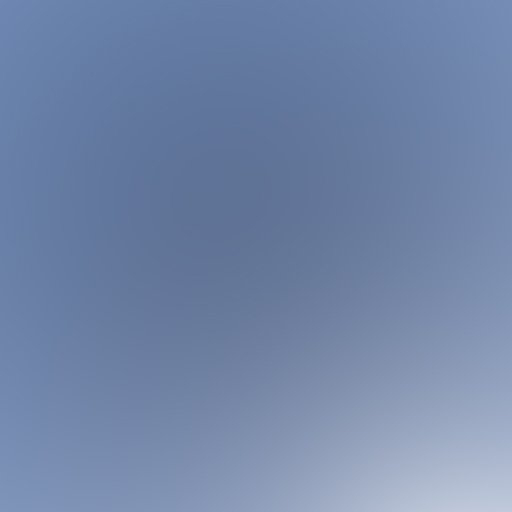
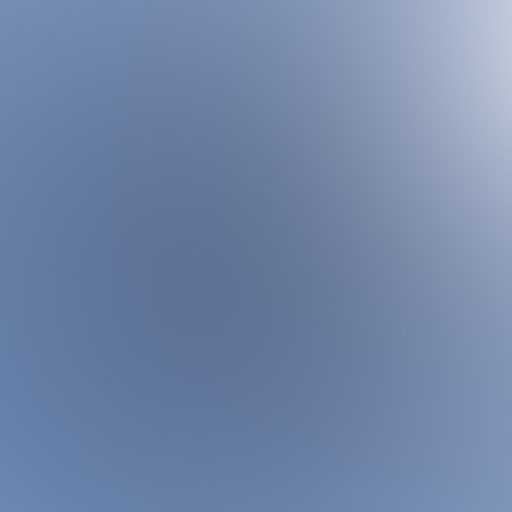
Implemented the skybox

Changed region(s): [[0.5625, 0.0, 1.0, 0.4688], [0.2188, 0.75, 1.0, 1.0]]

diff --git a/Interactive Room/Main.cpp b/Interactive Room/Main.cpp
@@ -16,6 +16,9 @@ void scroll_callback(GLFWwindow* window, double xoffset, double yoffset);
 void processInput(GLFWwindow *window);
 void key_callback(GLFWwindow* window, int key, int scancode, int action, int mode);
 void selectObject(double x, double y);
+GLuint loadCubeMap(vector<string> faces);
+void loadSkybox();
+void drawSkybox();
 
 // settings
 const unsigned int SCR_WIDTH = 800;
@@ -45,8 +48,12 @@ vector<Model*> Model::models;
 //shader pointers to switch between shaders in functions
 Shader* general;
 Shader* selection;
+Shader* skybox_shader;
 //boolean determining whether an object is selected or not
 bool isSelected;
+
+//Skybox objects
+GLuint skyboxVAO, skyboxVBO, skyboxEBO, skyboxCubemap;
 
 int main()
 {
@@ -105,7 +112,8 @@ int main()
 	general = &generalShader;
 	Shader selectionShader("Shaders/selection_vert.shader", "Shaders/selection_frag.shader");
 	selection = &selectionShader;
-	//Shader skyBoxShader("Shaders/skybox_vertex.shader", "Shaders/skybox_fragment.shader");
+	Shader skyBoxShader("Shaders/skybox_vertex.shader", "Shaders/skybox_fragment.shader");
+	skybox_shader = &skyBoxShader;
 
 	generalShader.use();
 	// scaled light positions
@@ -119,21 +127,8 @@ int main()
 	generalShader.setVec3("bedLamp", bedLamp);
 	generalShader.setVec3("kitchLamp", kitchLamp);
 
-	// load models
-	// -----------
-
-	//GLuint skyboxTexture;
-	//glGenTextures(1, &skyboxTexture);
-
-	//skyboxTexture = SOIL_load_OGL_single_cubemap
-	//(
-	//	"Models/skybox.jpg",
-	//	"WNESUD",
-	//	SOIL_LOAD_AUTO,
-	//	SOIL_CREATE_NEW_ID,
-	//	SOIL_FLAG_MIPMAPS
-	//);
-	//glBindTexture(GL_TEXTURE_CUBE_MAP, skyboxTexture);
+	//Load the skybox
+	loadSkybox();
 
 	//number of objects to load, hard-coded
 	int objNum = 28;
@@ -230,7 +225,6 @@ int main()
 	Model windows("Models/house/windows.obj");
 	cout << "windows loaded,\t\tposition -> " << windows.displacement().x << " : " << windows.displacement().y << " : " << windows.displacement().z << ".\t\t";
 	cout << "Objects left: " << --objNum << endl;
-	//Model skyBox("Models/cube.obj");
 
 	//sets the shader that each model is going to use.
 	for (int i = 0; i < Model::models.size(); ++i) {
@@ -267,6 +261,10 @@ int main()
 
 		// update shaders with view and projection
 		// ---------------------------------------
+		skyBoxShader.use();
+		skyBoxShader.setMat4("projection", projection);
+		skyBoxShader.setMat4("view", view);
+		skyBoxShader.setMat4("model", glm::translate(glm::mat4(1.0), camera.getCameraPosition()));
 		generalShader.use();
 		generalShader.setMat4("projection", projection);
 		generalShader.setMat4("view", view);
@@ -279,20 +277,12 @@ int main()
 		// render
 		// ------
 		glClear(GL_COLOR_BUFFER_BIT | GL_DEPTH_BUFFER_BIT);
+		//skybox.draw();
+		drawSkybox();
 
 		for (int i = 0; i < Model::models.size(); ++i) {
 			(*(Model::models[i])).Draw();
 		}
-
-		//skyBoxShader.use();
-		//glActiveTexture(GL_TEXTURE1);
-		//skyBoxShader.setMat4("view_matrix", view);
-		//skyBoxShader.setMat4("projection_matrix", projection);
-		//skyBoxShader.setInt("skyboxTexture", skyboxTexture);
-		//glDepthMask(GL_FALSE);
-		//skyBox.Draw(skyBoxShader);
-		//glDepthMask(GL_TRUE);
-		//glBindTexture(GL_TEXTURE_CUBE_MAP, 0);
 
 		// glfw: swap buffers
 		// ------------------
@@ -467,4 +457,105 @@ void selectObject(double x, double y) {
 		(*(Model::models[i])).setShader(general);
 	if (isSelected)
 		(*selected).setShader(selection);
+}
+
+GLuint loadCubeMap(vector<string> faces)
+{
+	GLuint textureID;
+	glGenTextures(1, &textureID);
+	glBindTexture(GL_TEXTURE_CUBE_MAP, textureID);
+
+	int width, height, nrComponents;
+	for (unsigned int i = 0; i < faces.size(); i++)
+	{
+		unsigned char *data = SOIL_load_image(faces[i].c_str(), &width, &height, &nrComponents, SOIL_LOAD_AUTO);
+		if (data)
+		{
+			glTexImage2D(GL_TEXTURE_CUBE_MAP_POSITIVE_X + i, 0, GL_RGB, width, height, 0, GL_RGB, GL_UNSIGNED_BYTE, data);
+
+			SOIL_free_image_data(data);
+		}
+		else
+		{
+			cout << "Texture failed to load at path: " << faces[i] << endl;
+			SOIL_free_image_data(data);
+		}
+	}
+
+	glTexParameteri(GL_TEXTURE_CUBE_MAP, GL_TEXTURE_MIN_FILTER, GL_LINEAR);
+	glTexParameteri(GL_TEXTURE_CUBE_MAP, GL_TEXTURE_MAG_FILTER, GL_LINEAR);
+	glTexParameteri(GL_TEXTURE_CUBE_MAP, GL_TEXTURE_WRAP_S, GL_CLAMP_TO_EDGE);
+	glTexParameteri(GL_TEXTURE_CUBE_MAP, GL_TEXTURE_WRAP_T, GL_CLAMP_TO_EDGE);
+	glTexParameteri(GL_TEXTURE_CUBE_MAP, GL_TEXTURE_WRAP_R, GL_CLAMP_TO_EDGE);
+
+	return textureID;
+}
+
+void loadSkybox()
+{
+	//Skybox
+	GLfloat skybox[] = {
+		-3, -3, -3, //front, bottom-left
+		3, -3, -3, //front, bottom-right
+		-3, 3, -3, //front, top-left
+		3, 3, -3, //front, top-right
+		-3, -3, 3, //back, bottom-left
+		3, -3, 3, //back, bottom-right
+		-3, 3, 3, //back, top-left
+		3, 3, 3  //back, top-right
+	};
+	GLuint skyboxIndeces[] = {
+		0,3,2,
+		0,1,3, //Front face
+		4,6,7,
+		4,7,5, //Back face
+		0,2,6,
+		0,6,4, //Left face
+		1,7,3,
+		1,5,7,//Right face
+		2,7,6,
+		2,3,7,//Top face
+		0,4,5,
+		0,5,1 //Bottom face
+
+	};
+
+	//Spinner Objects
+	glGenBuffers(1, &skyboxVBO);
+	glGenBuffers(1, &skyboxEBO);
+	glGenVertexArrays(1, &skyboxVAO);
+
+	glBindVertexArray(skyboxVAO);
+
+	glBindBuffer(GL_ARRAY_BUFFER, skyboxVBO);
+	glBufferData(GL_ARRAY_BUFFER, sizeof(skybox), skybox, GL_STATIC_DRAW);
+	glBindBuffer(GL_ELEMENT_ARRAY_BUFFER, skyboxEBO);
+	glBufferData(GL_ELEMENT_ARRAY_BUFFER, sizeof(skyboxIndeces), skyboxIndeces, GL_STATIC_DRAW);
+	glVertexAttribPointer(0, 3, GL_FLOAT, GL_FALSE, 3 * sizeof(GLfloat), (GLvoid*)0);
+	glEnableVertexAttribArray(0);
+
+	glBindVertexArray(0);
+
+	//Skybox settings
+	vector<string> faces = {
+		"Models/skybox/N.png",
+		"Models/skybox/S.png",
+		"Models/skybox/U.png",
+		"Models/skybox/D.png",
+		"Models/skybox/E.png",
+		"Models/skybox/W.png"
+	};
+	skyboxCubemap = loadCubeMap(faces);
+
+}
+
+void drawSkybox()
+{
+	glDepthMask(GL_FALSE);
+	skybox_shader->use();
+	glBindVertexArray(skyboxVAO);
+	glBindTexture(GL_TEXTURE_CUBE_MAP, skyboxCubemap);
+	glDrawElements(GL_TRIANGLES, 36, GL_UNSIGNED_INT, 0);
+	glBindVertexArray(0);
+	glDepthMask(GL_TRUE);
 }

diff --git a/Interactive Room/Headers/camera.h b/Interactive Room/Headers/camera.h
@@ -56,6 +56,11 @@ public:
 		return glm::lookAt(Position, Position + Front, Up);
 	}
 
+	glm::vec3 getCameraPosition()
+	{
+		return Position;
+	}
+
 	// Processes movement. Uses Movement enum to keep independant from input type (keyboard, controller, mouse, etc).
 	void ProcessMovement(Movement direction, float steps)
 	{
